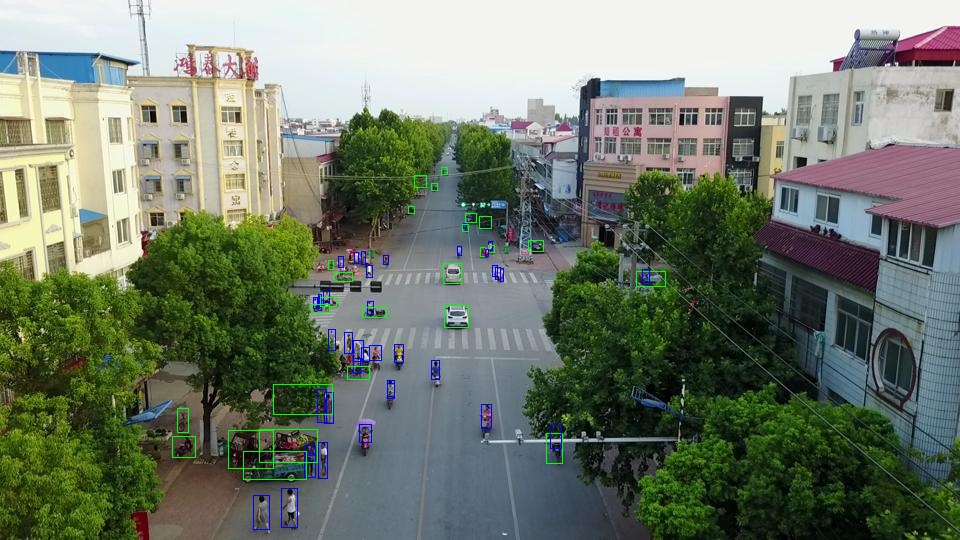
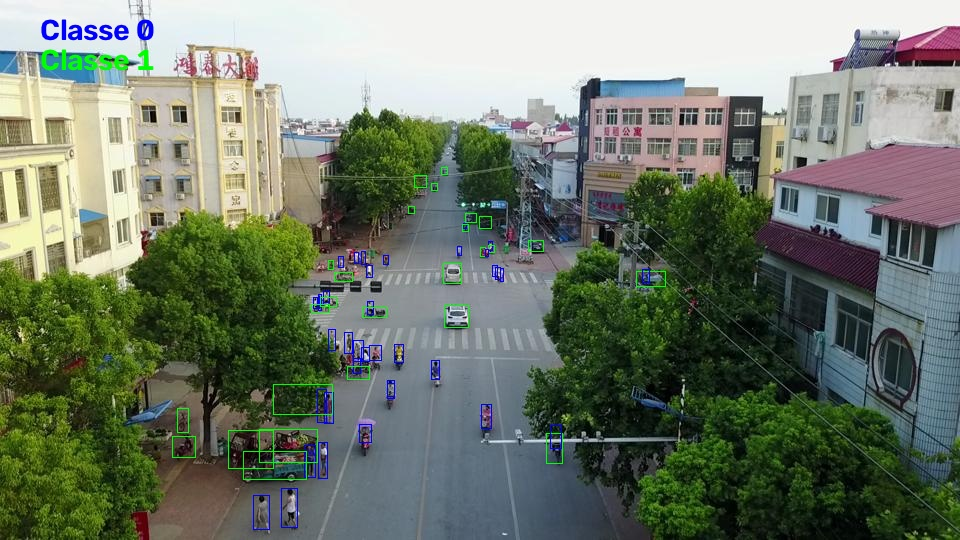
add class caption for boxes and fix windows not closing

Changed region(s): [[0.0312, 0.0296, 0.1562, 0.1481]]

diff --git a/src/modelos.py b/src/modelos.py
@@ -31,10 +31,17 @@ class ImagemAnotada:
         else:
             for box in self.boxes:
                 box.desenhar(img)
-
-            cv2.imshow("Imagem Anotada", img)
+            img = cv2.putText(
+                img, "Classe 0", (40, 40), cv2.FONT_HERSHEY_SIMPLEX, 1, blue, 2
+            )
+            img = cv2.putText(
+                img, "Classe 1", (40, 70), cv2.FONT_HERSHEY_SIMPLEX, 1, green, 2
+            )
+            cv2.imshow(self.img_name, img)
             cv2.imwrite(f"resultados/{self.img_name}", img)
 
             if cv2.waitKey(0) & 0xFF == ord("q"):
+                cv2.destroyAllWindows()
                 return False
+            cv2.destroyAllWindows()
         return True

diff --git a/src/main.py b/src/main.py
@@ -1,10 +1,9 @@
-import cv2
 from arquivos import boxes_per_img
 from modelos import ImagemAnotada
 
-for img_name, boxes in boxes_per_img.items():
-    img = ImagemAnotada(img_name, boxes)
-    if not img.adicionar_deteccao():
-        break
 
-cv2.destroyAllWindows()
+def main():
+    for img_name, boxes in boxes_per_img.items():
+        img = ImagemAnotada(img_name, boxes)
+        if not img.adicionar_deteccao():
+            break

diff --git a/README.md b/README.md
@@ -1,0 +1,7 @@
+# entregavel-2-gabriel-henrique
+
+>Segundo entregável do processo seletivo da UFRJ Harpia
+
+**Autor:** Gabriel Henrique Freitas Ribeiro
+
+## Descrição:
